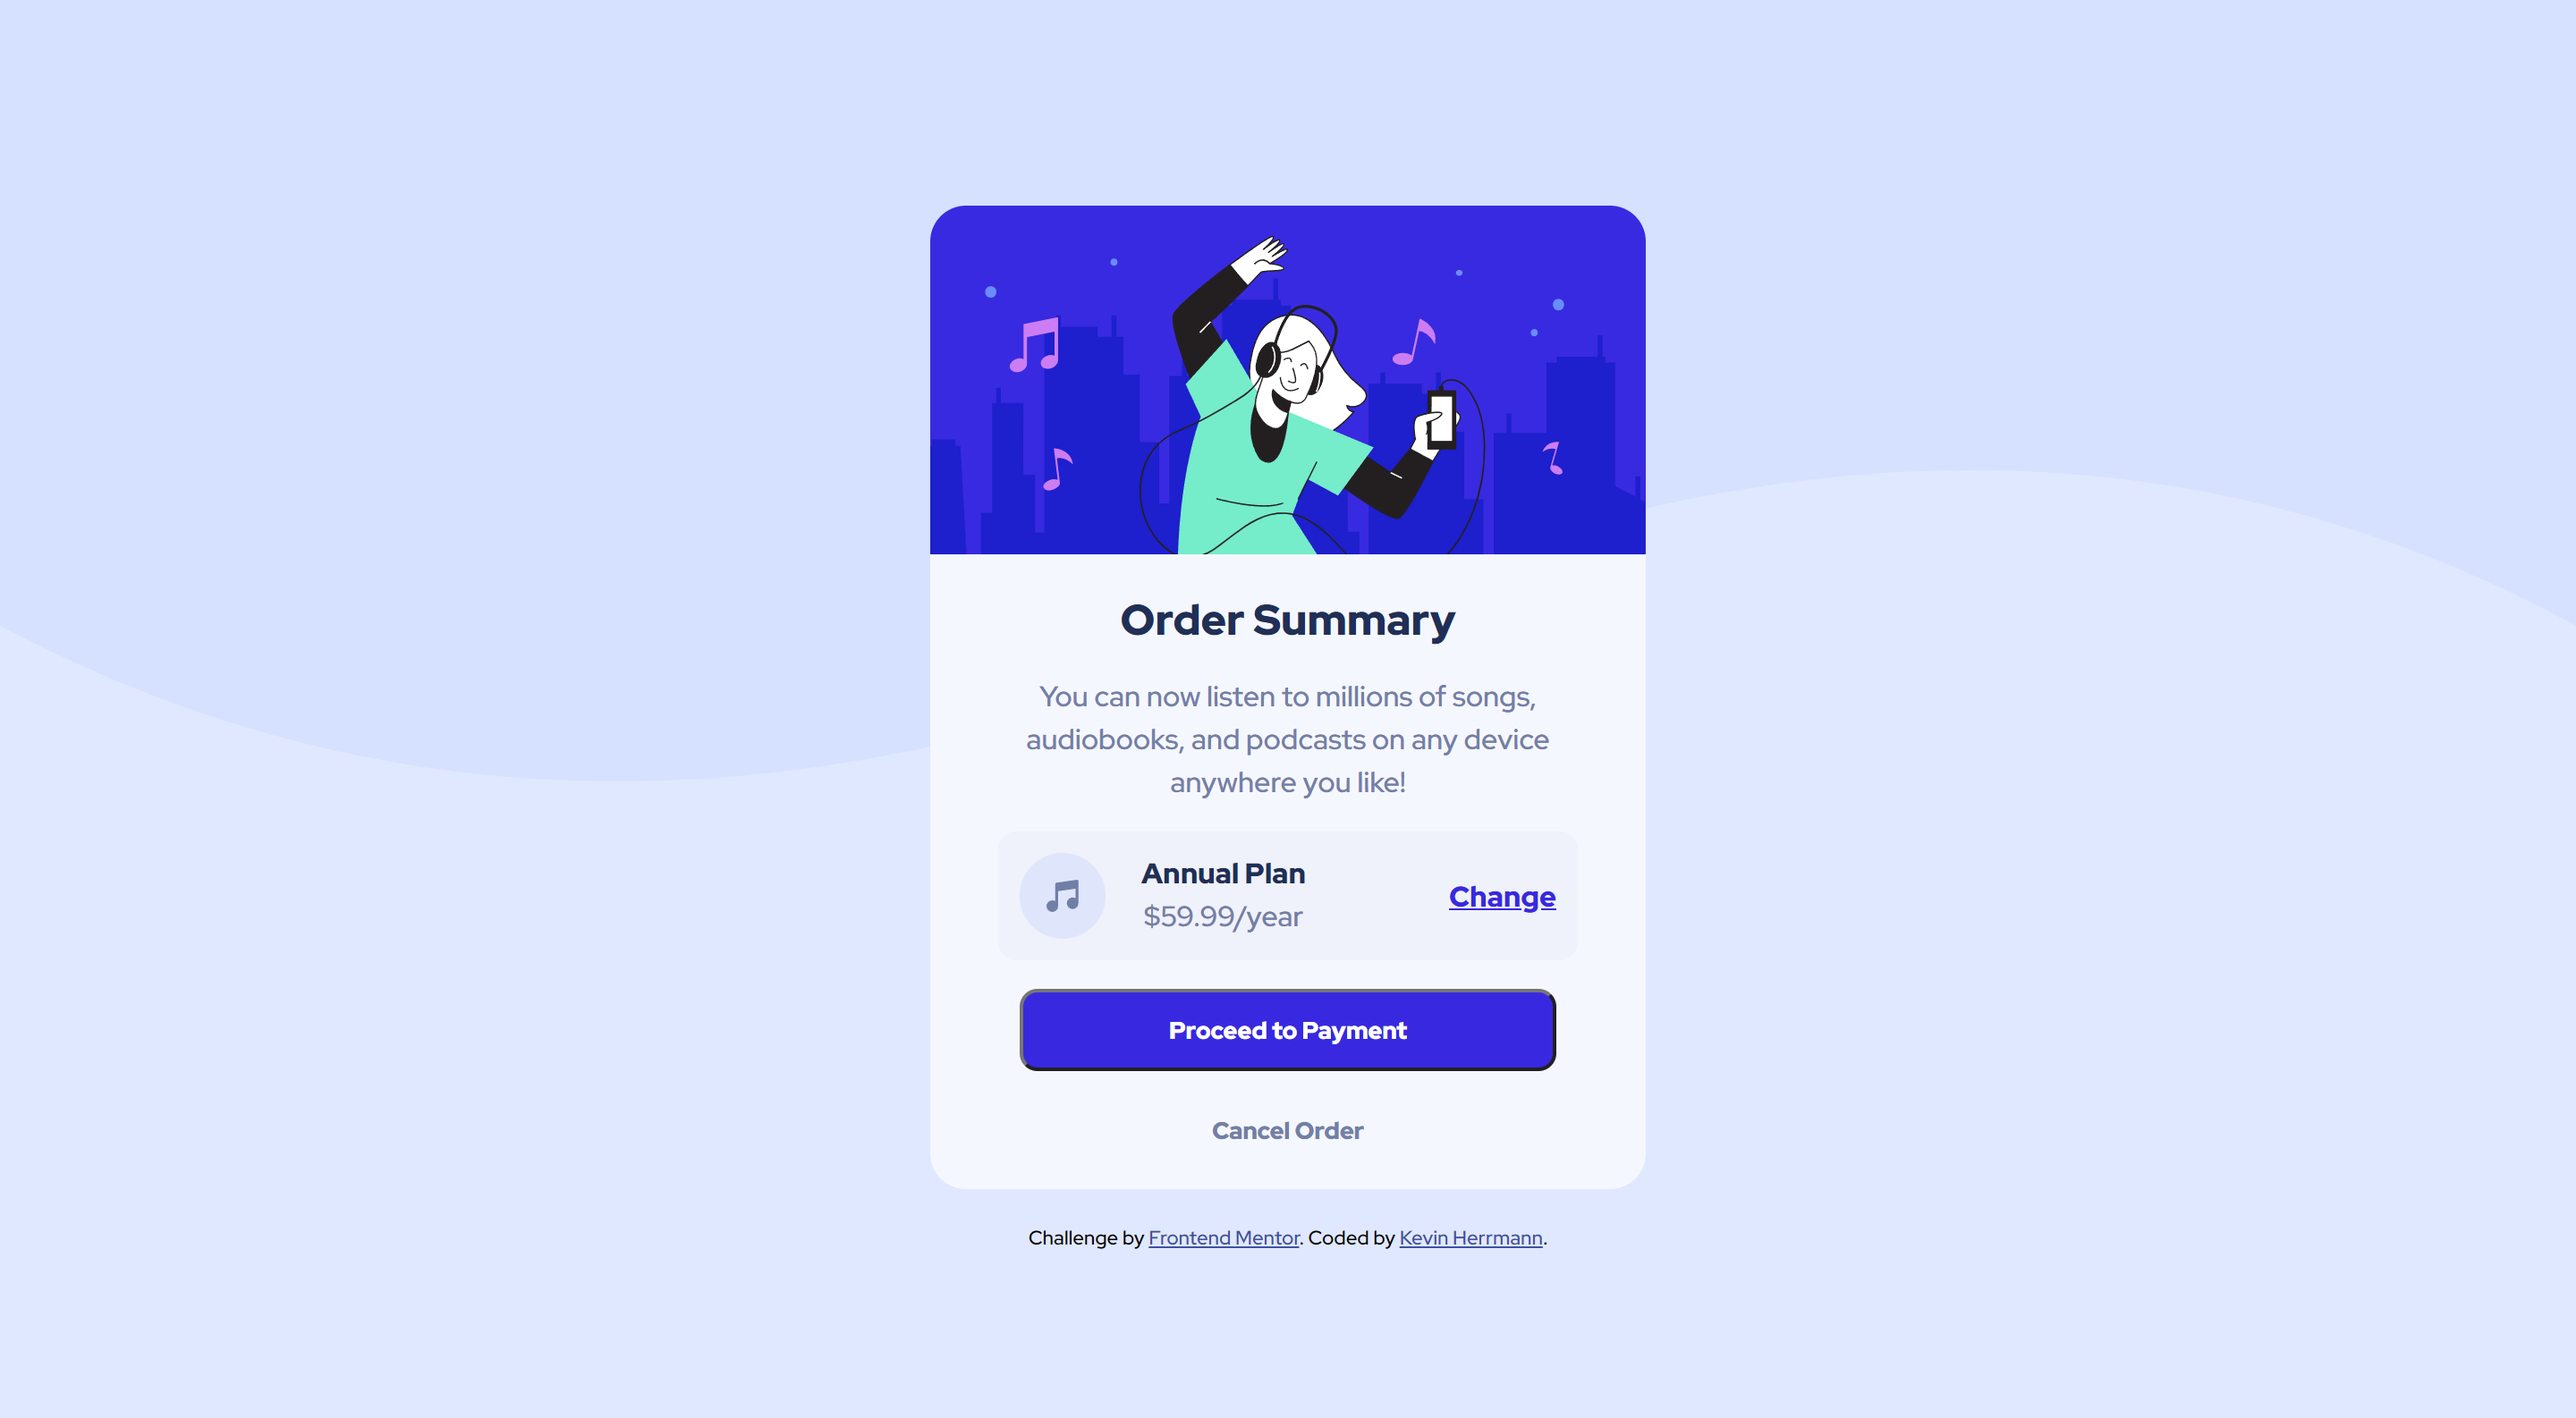
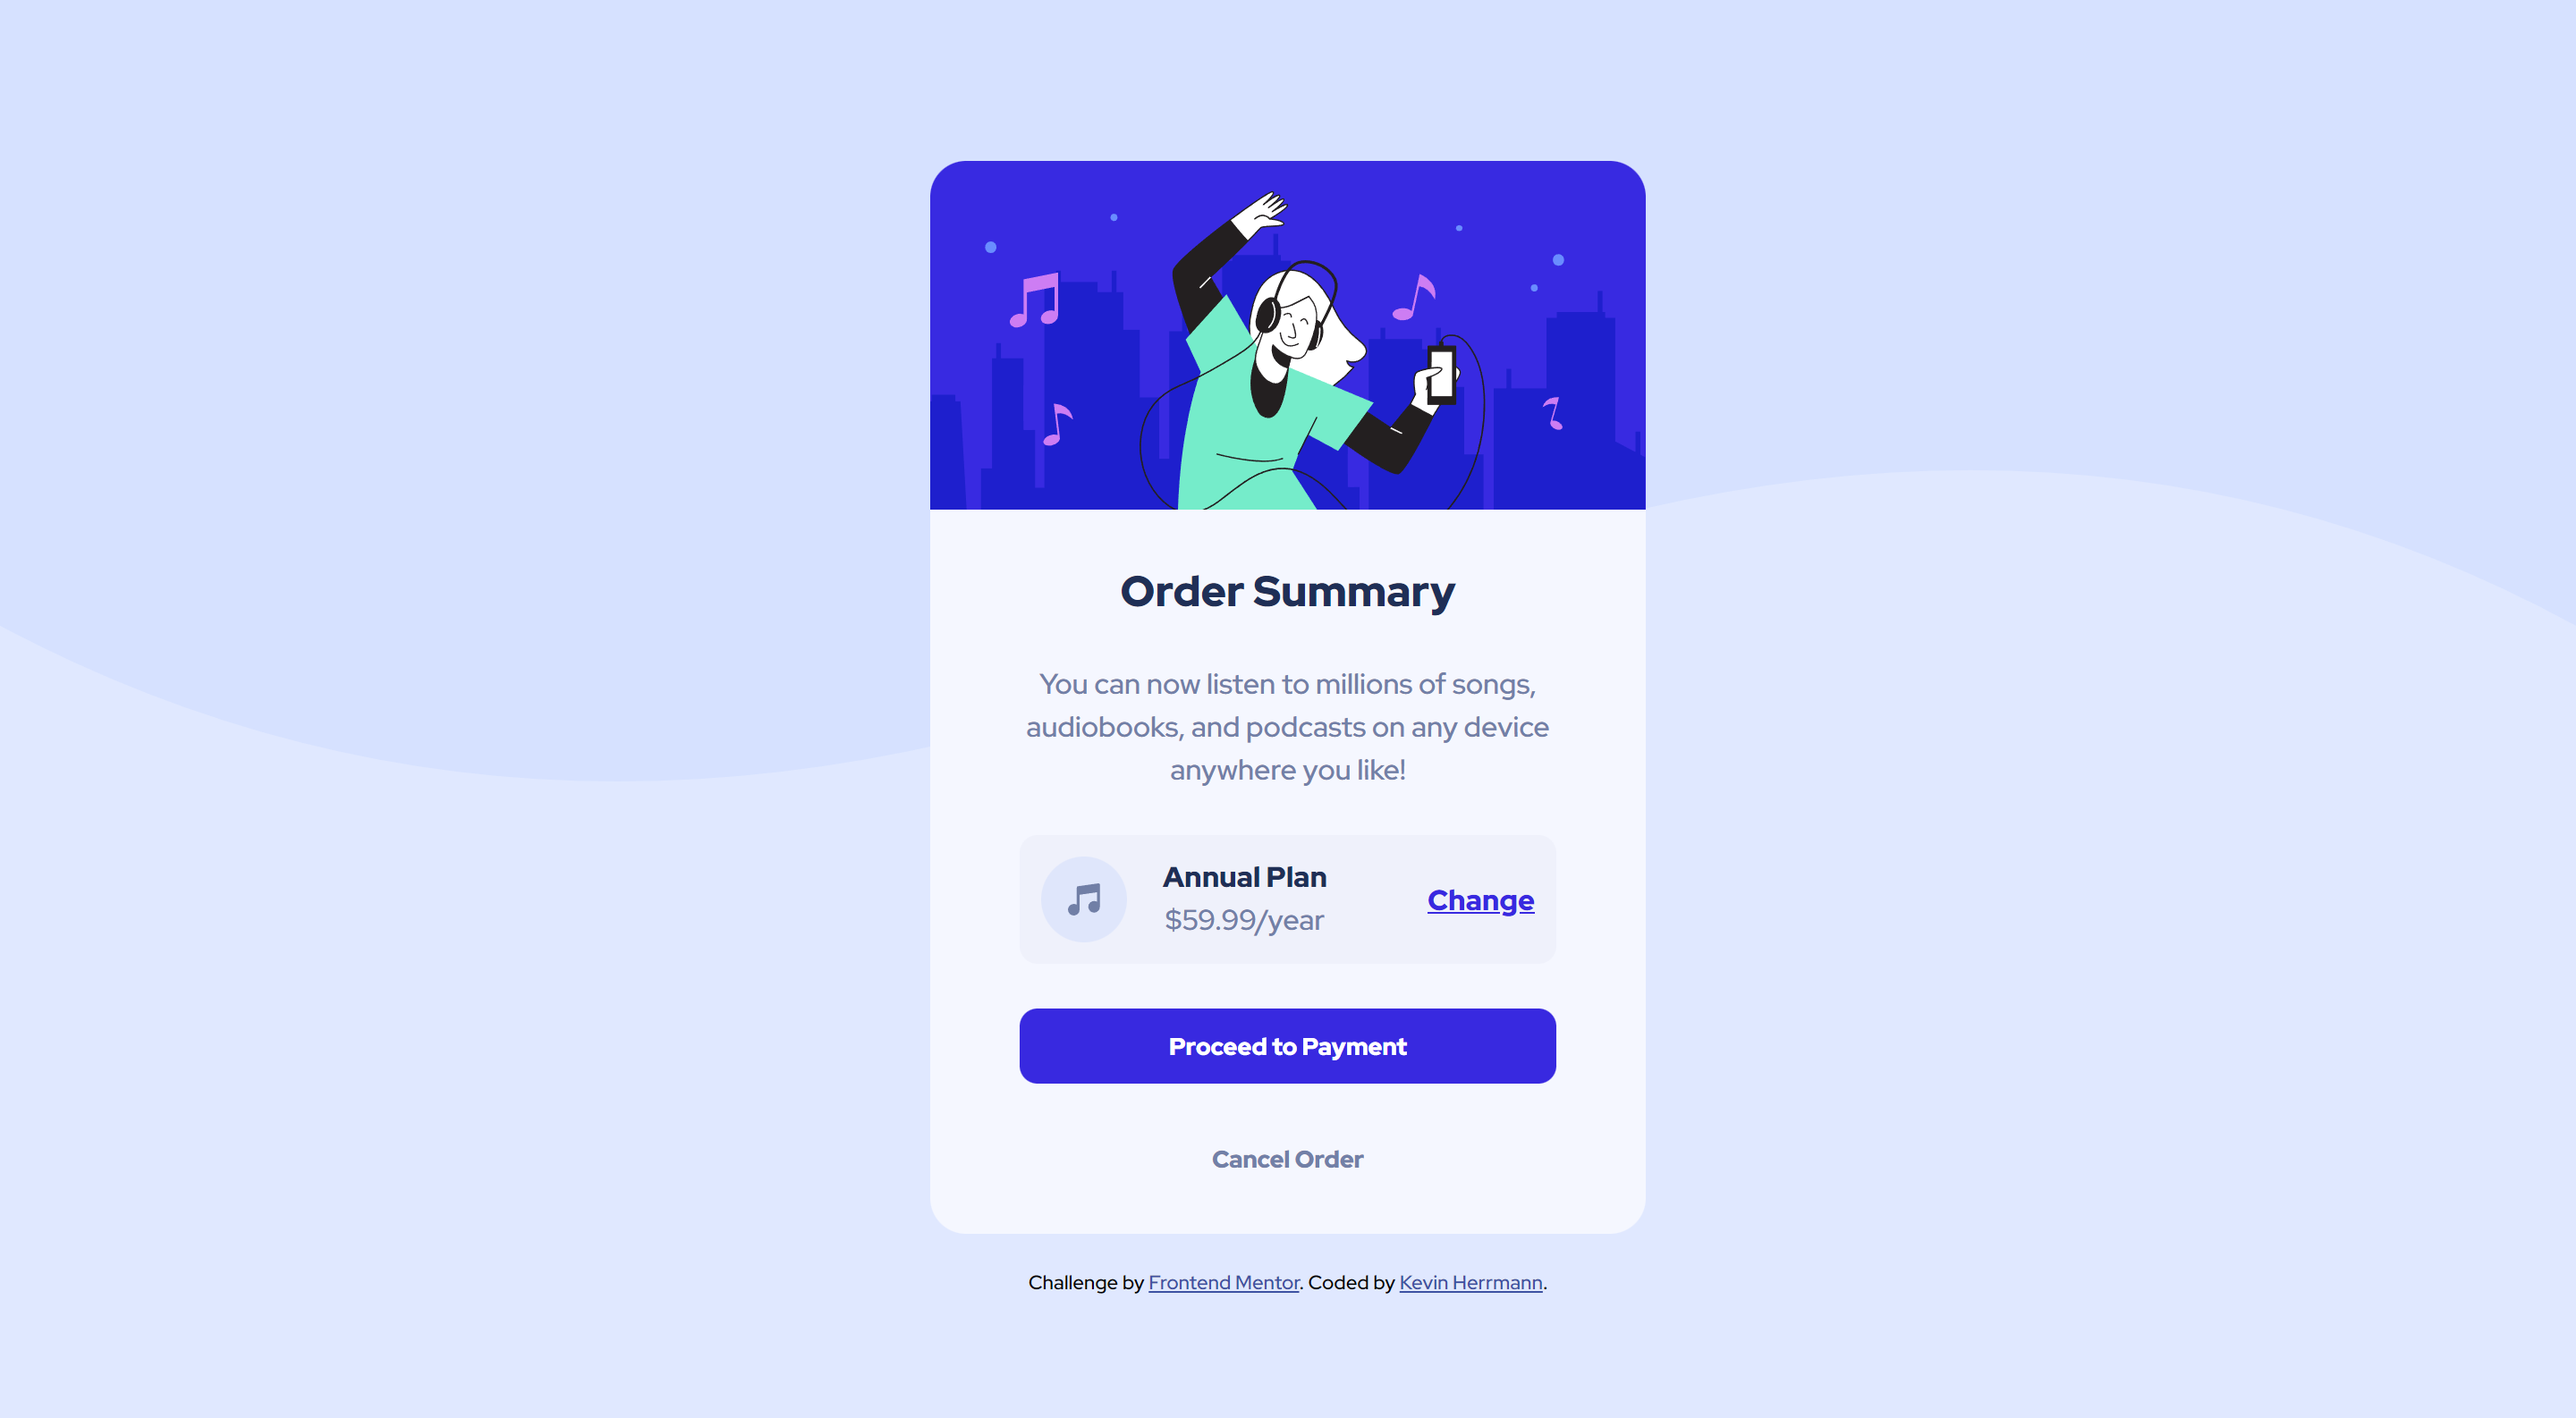
Add files via upload
updated html and css files; updated screenshot files

diff --git a/index.css b/index.css
@@ -10,10 +10,11 @@
     --font-size-paragraph: 16px;
 }
 
-/* RESET STYLES */
+/* RESET BROWSER STYLES */
 * {
     margin: 0;
     padding: 0;
+    box-sizing: border-box;
 }
 
 /* MAIN CONTENT */
@@ -47,6 +48,7 @@ body {
 
 .card-bottom {
     flex-grow: 2;
+    width: 100%;
 }
 
 .card-info {
@@ -100,6 +102,7 @@ body {
     font-weight: 900;
     border-radius: 10px;
     font-family: "Red Hat Display", sans-serif;
+    border: none;
 }
 
 .btn-1:hover {
@@ -131,6 +134,7 @@ body {
     color: hsl(228, 45%, 44%);
 }
 
+/* RESPONSIVE SIZES - LARGER THAN SMARTPHONE */
 @media only screen and (min-width: 376px) {
     body {
         background-image: url(images/pattern-background-desktop.svg);
@@ -140,6 +144,7 @@ body {
 
     .card {
         max-width: 400px;
+        height: 600px;
     }
 
     .card-info {

diff --git a/index.html b/index.html
@@ -28,7 +28,7 @@
     </div>
   </div>
   <div class="attribution">Challenge by <a href="https://www.frontendmentor.io?ref=challenge" target="_blank">Frontend
-      Mentor</a>. Coded by <a href="#">Kevin Herrmann</a>. </div>
+      Mentor</a>. Coded by <a href="https://www.frontendmentor.io/profile/kevinx9000">Kevin Herrmann</a>. </div>
 </body>
 
 </html>
